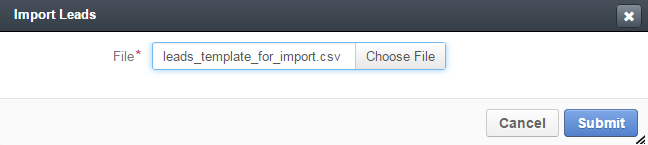
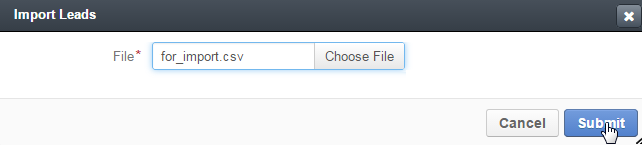
File changed. Excessive example removed

diff --git a/user_guide/export_import.rst b/user_guide/export_import.rst
@@ -4,8 +4,9 @@
 Import and Export Functionality
 ===============================
 
-Details of some OroCRM entities (e.g. Users, Leads, Opportunities, etc.) can be exported and/or imported in/from
-.csv files. 
+OroCRM's import and export functionality enables upload/download of multiple records, particularly in the course of 
+integration with third-party systems.
+
 For such entities, :guilabel:`Export` and :guilabel:`Import` buttons are displayed in the top right corner of the grid
 and :guilabel:`Export Grid` button is available right above the grid.
 
@@ -15,105 +16,39 @@ and :guilabel:`Export Grid` button is available right above the grid.
 Import
 -------
 
-Import functionality is particularly useful, if you want to upload multiple instances.
-
 - Click |Bdropdown| on the  :guilabel:`Import` in the top right corner of the grid page
+
 - Choose :guilabel:`Download Data Template`
+
+.. image:: ./img/export_import/download_data_template.png
+
 - Prepare a .csv file following the template 
-- Click  :guilabel:`Import` button, choose the .csv file for import
-- Carefully read through the submission form and confirm the import
+
 
 .. caution:: 
 
     Mandatory fields of the entity **must** be specified
 
-Once import is over the new entity instances will appear in the grid.
 
-      
-*Import Example*
-^^^^^^^^^^^^^^^^
+- Click  :guilabel:`Import` button
 
-Prior to using OroCRM, John&Sons construction material factory used to keep track of their potential opportunities
-in a Calc table. 
-Now they want to upload their details to OroCRM as Leads. 
+- Click :guilabel:`Choose File` and choose a .csv file to import
 
-These are the first 10 instances of the table:
-
-.. image:: ./img/export_import/in_lead_table_ex.png
-
-You can find the whole document at the *System --> Entities --> Documentation --> Initial Leads Table --> 
-Attachments --> John&SonsLeads.xls*.
-
-In order to import the Leads into the system, we have downloaded the data template.
-
-.. image:: ./img/export_import/download_data_template.png
-
-- All the mandatory properties **must** be filled
-- If a column is missing, the value will be filled with the default value or left empty
-- If there is a column in the initial table that must be added to the system and is not in the template, custom 
-  property must be created for it.
-
-In our example:
-
-- **Id** can be left empty and will be automatically generated by the system.
-
-- **Mandatory Properties**
-
-  - Channel Name: must be defined. We have created a new column *Channel name*. As we are uploading data for the Channel 
-    instance *Factory* (Channel instance of B2B Type created for the John&Sons Factory sales activities as an example in 
-    the :ref: Channel Management Guide <user-guide-channels-example`, we have filled all the column rows with 
-    *Factory*
-  
-  - Owner: will be filled with default value specified in the system, so we don't need to create a column
-
-- **Properties specified in the initial table**:
-  
-  - Status Name: corresponds to the *Status Name* column of the data template
-  
-  - Lead name: corresponds to the *Lead name* column of the data template
-  
-  - First name: corresponds to the *First name* column of the data template
-
-  - Last name: corresponds to the *Last name* column of the data template
-
-  - Company: corresponds to the *Company name* column of the data template
-
-  - Phone number: corresponds to the *Phone number* column of the data template
-  
-  - Email: corresponds to the *Email* column of the data template
- 
-  - Street: corresponds to the *Address Street* column of the data template
-
-  - Zip: corresponds to the *Address Zip/postal code* column of the data template
-
-  - State: must be configured to match the settings of *Address State Combined code* column of the data template (US 
-    prefix added)
-
-This is what we have got for the first ten instances.
-
-.. image:: ./img/export_import/lead_table_ex_1.png    
-
-You can find the whole document at the *System --> Entities --> Documentation --> Leads Table for import--> 
-Attachments --> leads_template_for_import.xls*.
-
-We have saved the file as .csv with coma (,) for a field delimiter and quotation mark (") as a text delimiter.
-
-In the Leads grid, we have clicked :guilabel:`Import` button and chosen our file:
+- Click :guilabel:`Submit`
 
 .. image:: ./img/export_import/leads_import.png
 
-Import validation results have appeared:
+- Carefully read through the submission form and confirm the import
 
 .. image:: ./img/export_import/leads_import_validation_results.png
    
-Click :guilable:`Import` button. 
+- Click :guilable:`Back` to choose another file or :guilable:`Import` button to go on with the import
 
-*"Validation started. Please wait"* message will appear. 
+  *"Validation started. Please wait"* message will appear. 
 
-*"File is successfully imported"* message will appear when the import has finished.
+  *"File is successfully imported"* message will appear when the import has finished.
 
-Entities imported will appear in the grid.
-
+Once import is over the new entity instances will appear in the grid.
 
 
 .. _user-guide-export:
@@ -121,14 +56,8 @@ Entities imported will appear in the grid.
 Export
 -------
 
-The functionality enables export of the entity records details into  a .csv file. 
-
-In order to export a .csv file:
-
 - Go to the grid and 
-  - Click :guilable:`Export` button to export all the fields assigned for export for all the entity records or  
-  - Click :guilable:`Export Grid`button to export the table that correspond to the grid
-
+  - Click :guilable:`Export` button
   
 - *"Export started. Please wait"* message will appear at the top of the screen.
 
@@ -138,6 +67,12 @@ In order to export a .csv file:
 - Click the *"Download result file*" at the end of the message and the download will be performed subject to your 
   browser settings.
 
+.. note:: 
+
+    The scope of record details exported, their name and position in the .csv file depend on the Import&Export settings
+    of the entity fields. 
+
+    
 
 .. |Bdropdown| image:: ./img/buttons/Bdropdown.png
    :align: middle
